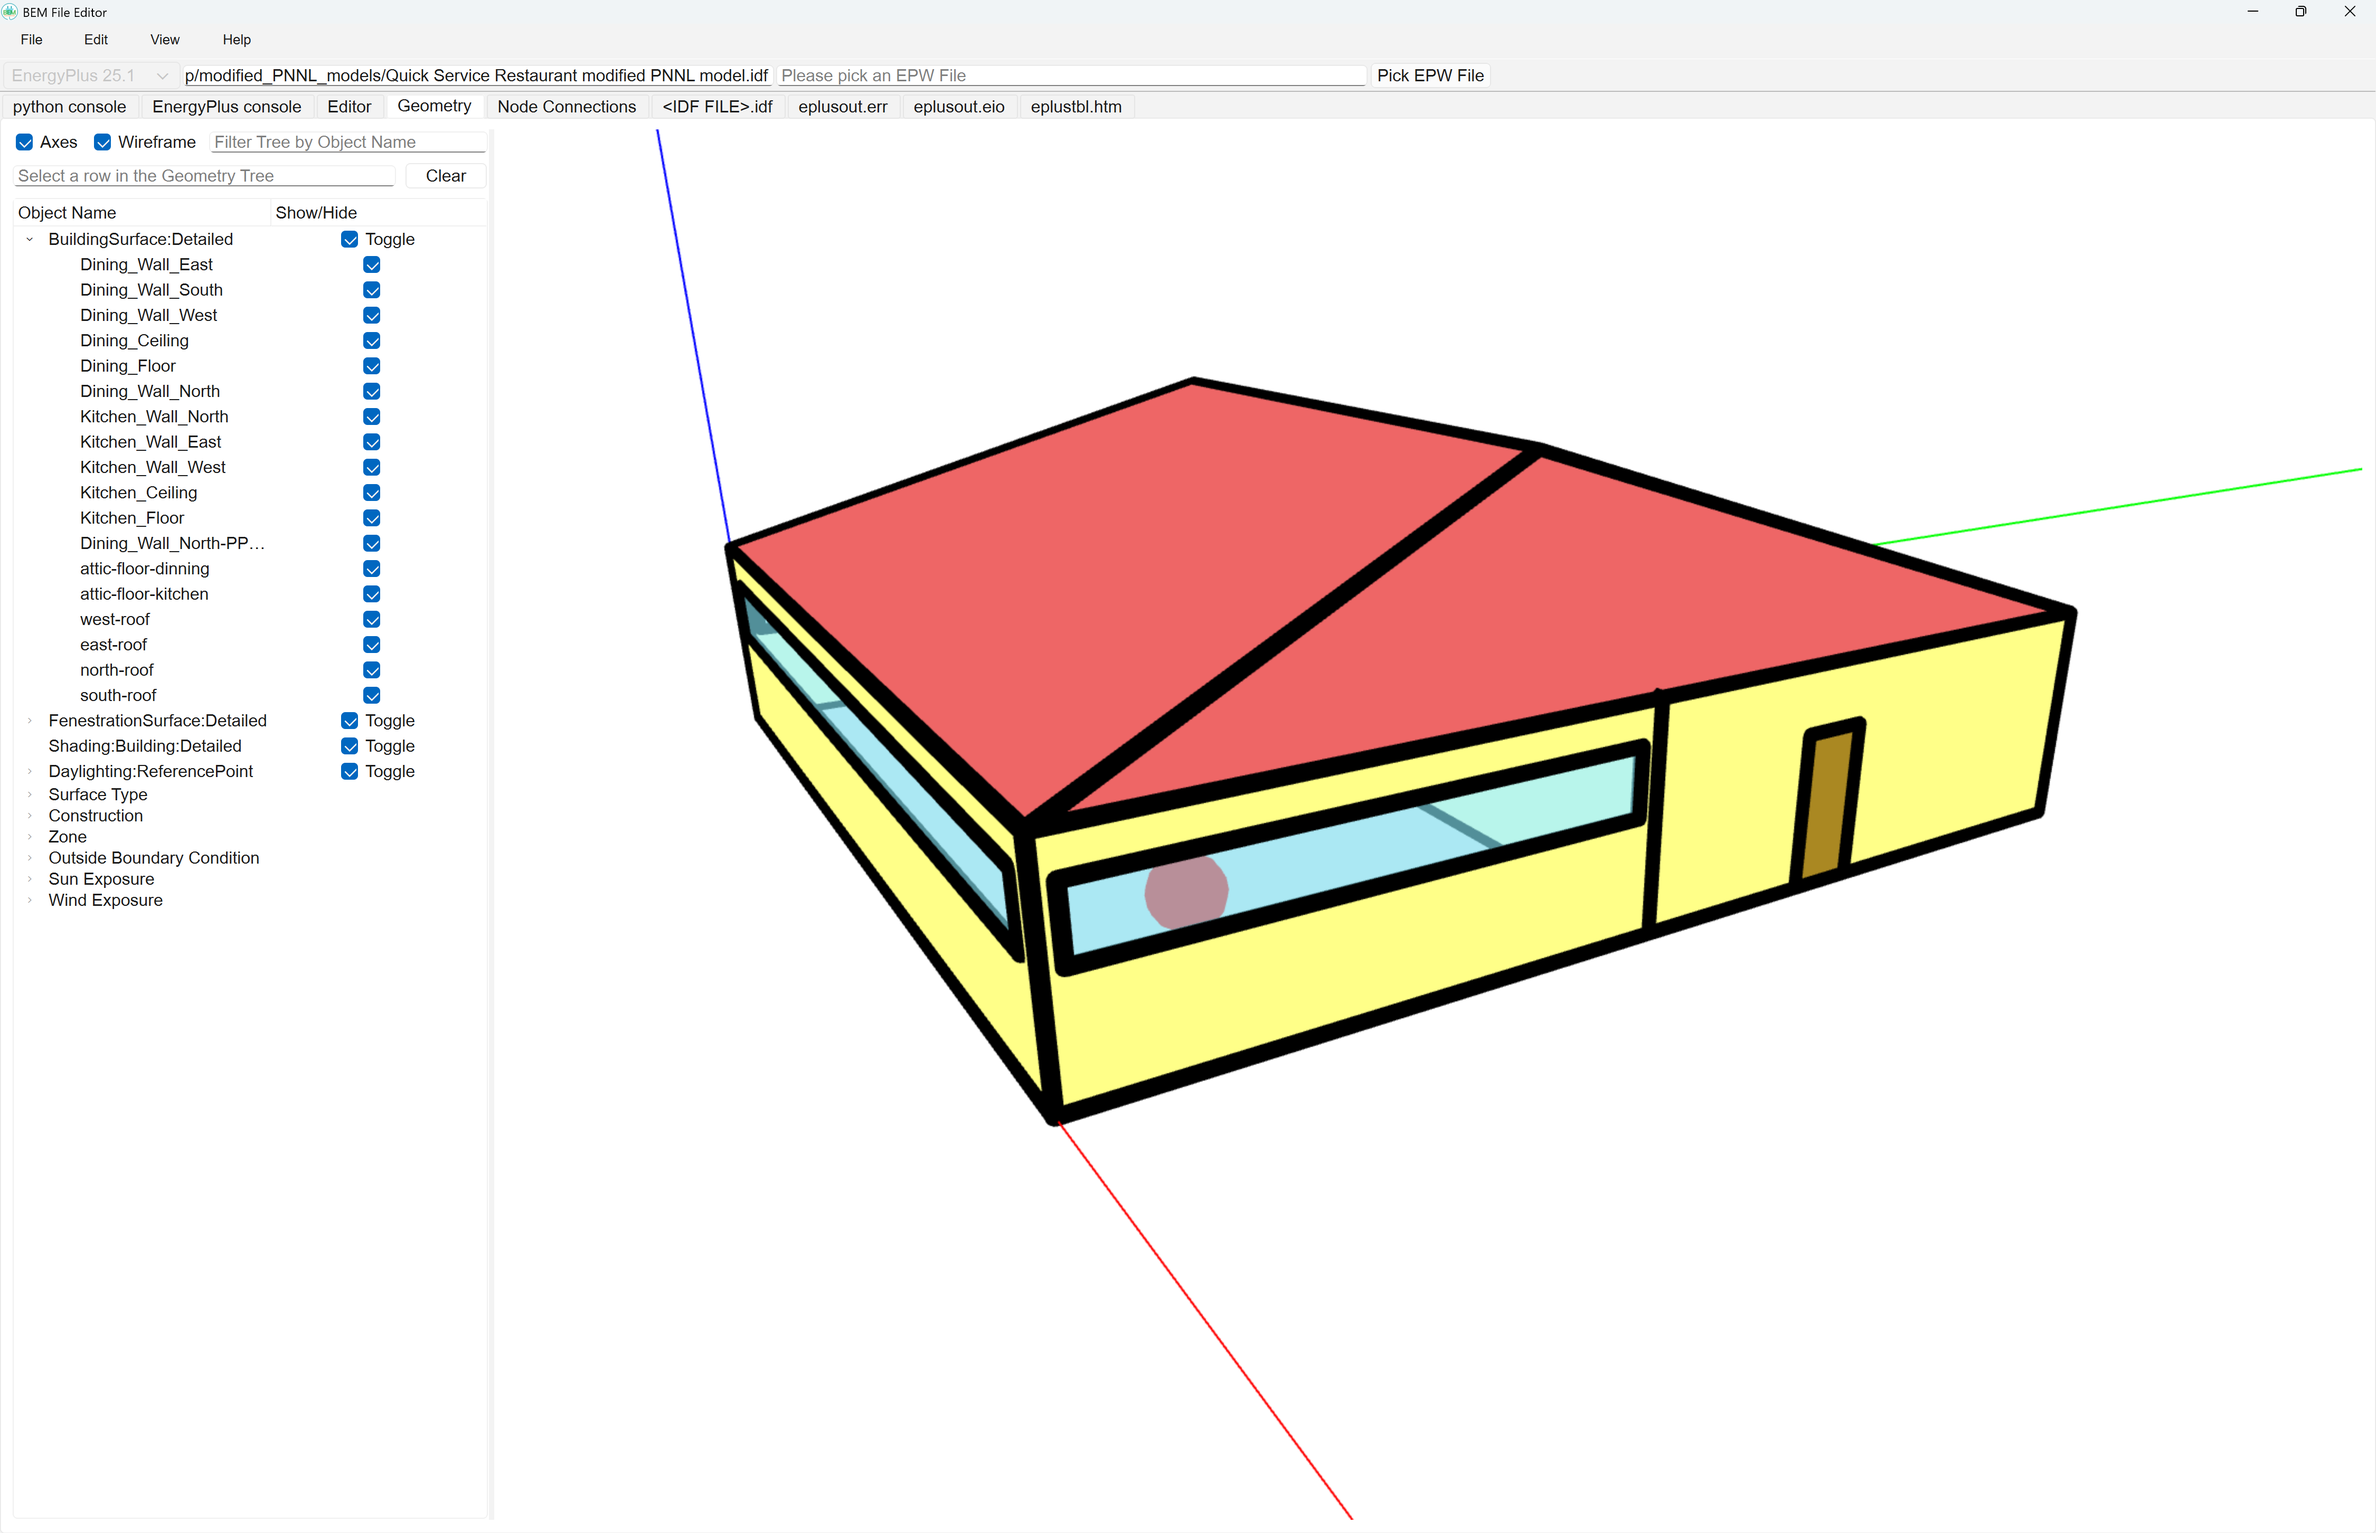
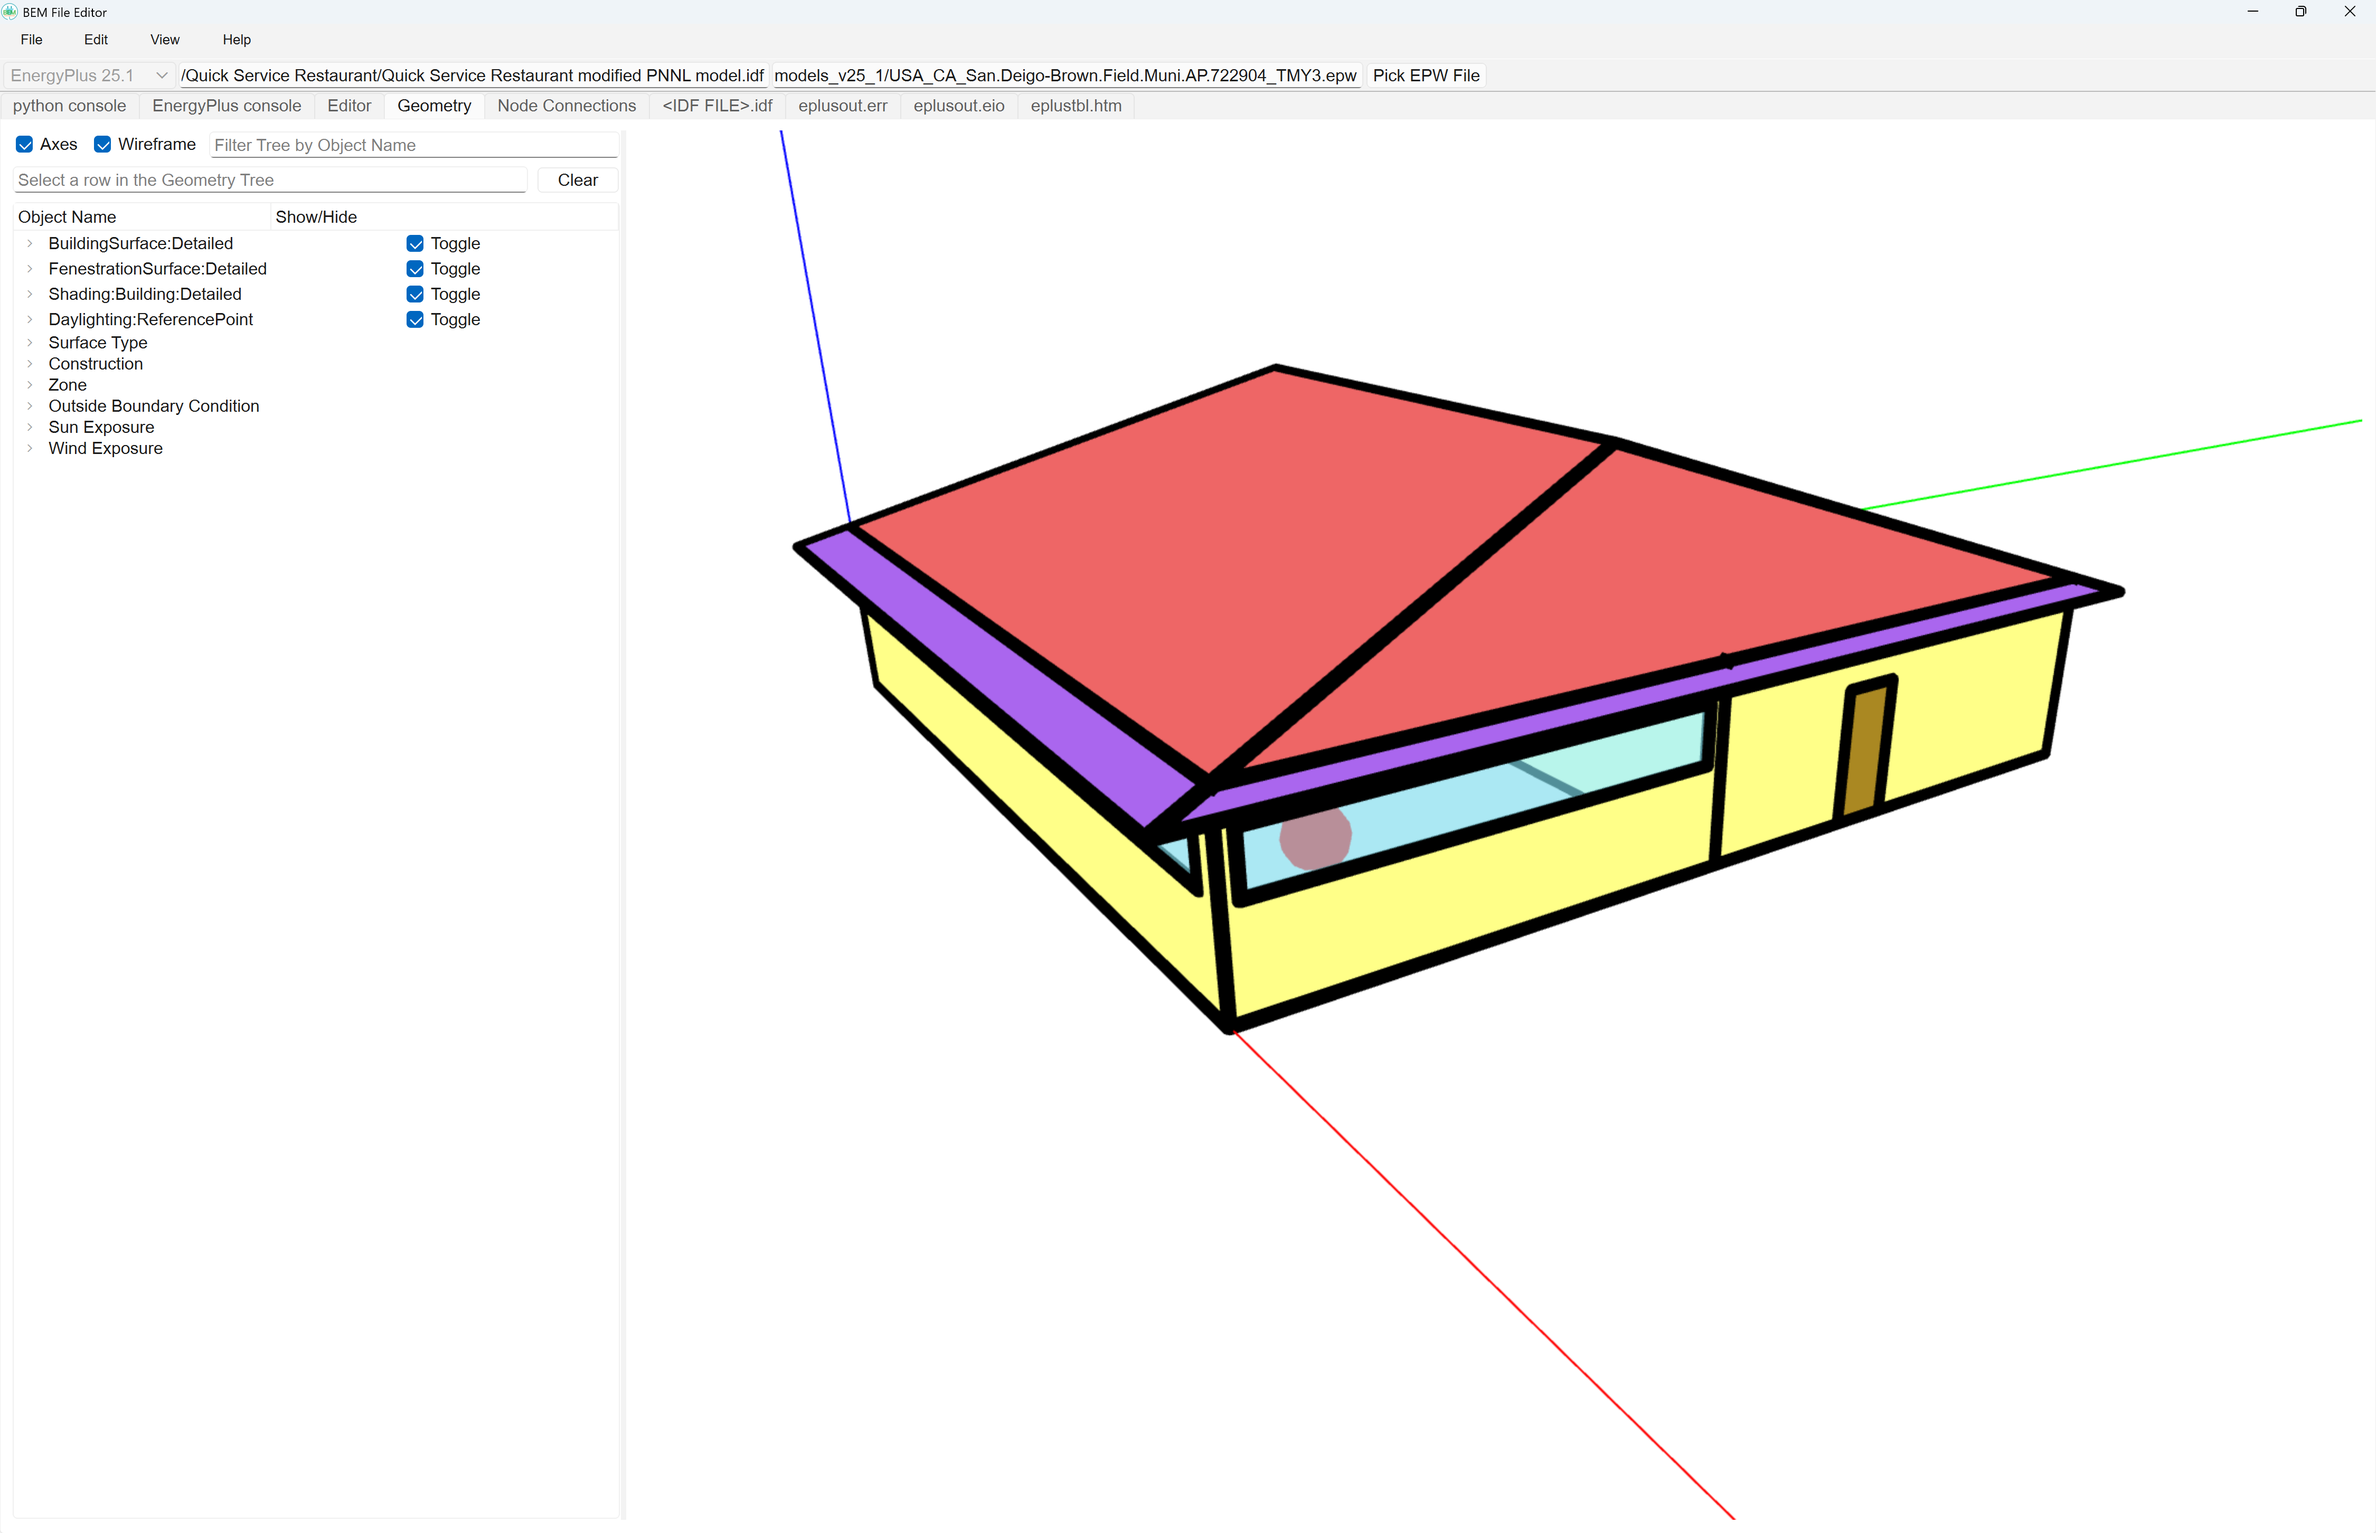
add modified prototypes to website

Changed region(s): [[0.28, 0.2169, 0.9022, 0.7438], [0.0, 0.031, 0.6222, 0.5888], [0.1556, 0.155, 0.2178, 0.2169]]

diff --git a/docs/index.html b/docs/index.html
@@ -983,7 +983,7 @@ window.onload = function() {
   
   <br>
   
-  <!--<span class="subtitle_font">
+  <span class="subtitle_font">
     Modified Prototype Models
   </span>
   
@@ -991,9 +991,11 @@ window.onload = function() {
   <br>
   
   <span class="text_font">
-    The <a href="https://www.energy.gov/eere/buildings/commercial-reference-buildings" target="_blank" class="text_anchors">DOE Commercial Reference Buildings</a> and subsequent <a href="https://www.energycodes.gov/prototype-building-models" target="_blank" class="text_anchors">PNNL Prototype Building Models</a> are representative building models that were updated periodically, with the latest PNNL prototypes still being updated, to estimate energy savings associated with changes in energy codes and standards. (More information in the <a href="#id_Prototype_Models_Created_by_the_Government" class="text_anchors">Prototype Models Created by the Government</a> section below.) One drawback of the sequences of models is the newer models do not take advantage of some newer EnergyPlus features. This is intentional so that changes in model outputs compared across versions will be due to the intentional changes in energy codes and standards without noise being introduced by the use of different modeling features. One example of this is the newer ground heat transfer methods available in EnergyPlus, which are far easier to specify and simulate. (See <a href="https://bigladdersoftware.com/projects/kiva/" target="_blank" class="text_anchors">https://bigladdersoftware.com/projects/kiva/</a> for an example.)<br>
+    The <a href="https://www.energy.gov/eere/buildings/commercial-reference-buildings" target="_blank" class="text_anchors">DOE Commercial Reference Buildings</a>, and subsequent <a href="https://www.energycodes.gov/prototype-building-models" target="_blank" class="text_anchors">PNNL Prototype Building Models</a>, are representative building models that were updated periodically, with the latest PNNL prototypes still being updated, to estimate energy savings associated with changes in energy codes and standards. (More information in the <a href="#id_Prototype_Models_Created_by_the_Government" class="text_anchors">Prototype Models Created by the Government</a> section below.) One drawback of the sequences of models is the newer models do not take advantage of some newer EnergyPlus features. This is intentional so that changes in model outputs compared across versions will be due to the intentional changes in energy codes and standards without noise being introduced by the use of different modeling features. One example of this is the newer ground heat transfer methods available in EnergyPlus, which are far easier to specify and simulate. (See <a href="https://bigladdersoftware.com/projects/kiva/" target="_blank" class="text_anchors">https://bigladdersoftware.com/projects/kiva/</a> for an example.)<br>
     <br>
-    Below are some modified PNNL Prototype Building Models to use more modern EnergyPlus features and objects. These models are better suited for simulating hypothetical future buildings. Different combinations of energy efficiency technologies can be simulated to estimate savings against the overall monetary costs. For example, the benefit of indirect evaporative cooling on outdoor air intake during heat waves. Each IDF includes a description of all the modifications, along with the original PNNL IDF description, in a comment at the top of the IDF file viewed with a text editor. All the IDFs are available in <a href="modified_PNNL_models.zip" target="_blank" class="text_anchors">modified_PNNL_models.zip</a> for download.
+    Below are Geometry screenshots of some modified PNNL Prototype Building Models to use more modern EnergyPlus features and objects. These models are better suited for simulating hypothetical future buildings. Different combinations of energy efficiency technologies can be simulated to estimate savings against the overall monetary costs. For example, the benefit of indirect evaporative cooling on outdoor air intake during heat waves.<br>
+    <br>
+    I made these models for use by and with clients. Some of the models are generated with python scripts. This allows for easier automation, especially in the multistory buildings, for parametric model generation. One large change is the explicit modeling of all zones instead of using zone multipliers. This is where EnergyPlus shows some of its age. With today's computers, simulating all zones explicitly might take 8 minutes instead of 4 minutes, which is not at all worth the savings if the user spends 20 times as long checking the model to make sure the zone multipliers actually work. The zone multipliers can work, but can be difficult to do correctly, and are time consuming to verify. Examples are when using cooled and heated water to condition air at the terminal unit in multiplied zones, accounting for total air flow on a shared fan, or extra water flow for a pump, can be difficult to specify correctly in an EnergyPlus model with zone multipliers. Back in the 1990s and 2000s, simulation time was much longer, and using zone multipliers made sense, but not with today's computers.
   </span>
     
   <br>
@@ -1112,7 +1114,7 @@ window.onload = function() {
   
   <br>
   <br>
-  <br>-->
+  <br>
   
   <span class="subtitle_font" id="id_Prototype_Models_Created_by_the_Government">
     Prototype Models Created by the Government
@@ -1122,7 +1124,7 @@ window.onload = function() {
   <br>
   
   <span class="text_font">
-    For years, the DOE has funded the creation and updating of building models in EnergyPlus. These building models cover a variety of commercial and residential building types, meant to be representative of a significant portion of all existing buildings in the US. The models are updated periodically to simulate energy savings associated with changes in energy codes and standards. This <a href="https://www.youtube.com/watch?v=5hV4okjXkF8" target="_blank" class="text_anchors">Building Prototype Models Overview</a> is a brief video showing the source websites and discussing some of the models.<br>
+    For years, the DOE has funded the creation and updating of building models in EnergyPlus. These building models cover a variety of commercial and residential building types, meant to be representative of a significant portion of all existing buildings in the US. The models are updated periodically to simulate energy savings associated with changes in energy codes and standards. This <a href="https://www.youtube.com/watch?v=5hV4okjXkF8&list=PLHAVvn_0HAtdgt41OAwob8ufEc-SReXW4" target="_blank" class="text_anchors">Building Prototype Models Overview</a> is a brief video showing the source websites and discussing some of the models.<br>
     <br>
     For researchers, the models are useful as base models to investigate changes in construction, equipment, and controls on energy use and utility bills. Two of the most useful parts of each building model are the overall geometry and schedules specified in the IDF file. Researchers can have confidence that the parts of the model that can't easily be calculated or looked up, such as the behavior of people in the building and thermostat setpoints, were rigorously investigated for each building type.<br>
     <br>
